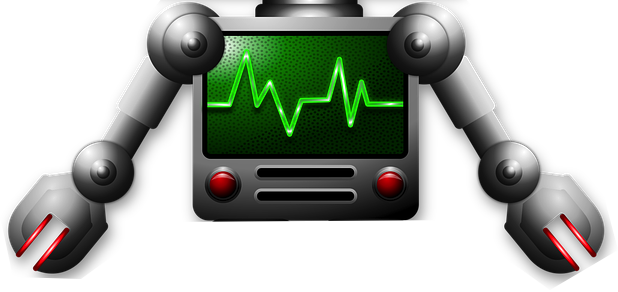
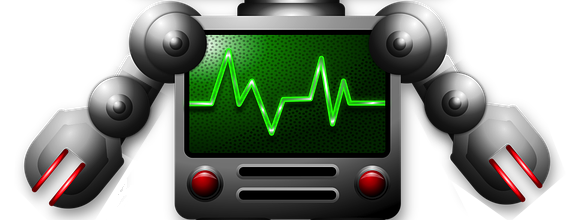
reandom button, looped images

diff --git a/src/App.js b/src/App.js
@@ -5,12 +5,48 @@ import "./App.css";
 import h1 from "./img/heads/h1.png";
 import h2 from "./img/heads/h2.png";
 import h3 from "./img/heads/h3.png";
+import h4 from "./img/heads/h4.png";
+import h5 from "./img/heads/h5.png";
+import h6 from "./img/heads/h6.png";
+import h7 from "./img/heads/h7.png";
+import h8 from "./img/heads/h8.png";
+import h9 from "./img/heads/h9.png";
+import h10 from "./img/heads/h10.png";
+import h11 from "./img/heads/h11.png";
+import h12 from "./img/heads/h12.png";
+import h13 from "./img/heads/h13.png";
+import h14 from "./img/heads/h14.png";
+import h15 from "./img/heads/h15.png";
 import b1 from "./img/bodies/b1.png";
 import b2 from "./img/bodies/b2.png";
 import b3 from "./img/bodies/b3.png";
+import b4 from "./img/bodies/b4.png";
+import b5 from "./img/bodies/b5.png";
+import b6 from "./img/bodies/b6.png";
+import b7 from "./img/bodies/b7.png";
+import b8 from "./img/bodies/b8.png";
+import b9 from "./img/bodies/b9.png";
+import b10 from "./img/bodies/b10.png";
+import b11 from "./img/bodies/b11.png";
+import b12 from "./img/bodies/b12.png";
+import b13 from "./img/bodies/b13.png";
+import b14 from "./img/bodies/b14.png";
+import b15 from "./img/bodies/b15.png";
 import f1 from "./img/feet/f1.png";
 import f2 from "./img/feet/f2.png";
 import f3 from "./img/feet/f3.png";
+import f4 from "./img/feet/f4.png";
+import f5 from "./img/feet/f5.png";
+import f6 from "./img/feet/f6.png";
+import f7 from "./img/feet/f7.png";
+import f8 from "./img/feet/f8.png";
+import f9 from "./img/feet/f9.png";
+import f10 from "./img/feet/f10.png";
+import f11 from "./img/feet/f11.png";
+import f12 from "./img/feet/f12.png";
+import f13 from "./img/feet/f13.png";
+import f14 from "./img/feet/f14.png";
+import f15 from "./img/feet/f15.png";
 import { debug } from "util";
 
 class App extends Component {
@@ -25,13 +61,62 @@ class App extends Component {
     //   originalState
     // });
     // this.handleRefresh(originalState);
-    const heads = [h1, h2, h3];
-    const bodies = [b1, b2, b3];
-    const feet = [f1, f2, f3];
+    const heads = [
+      h1,
+      h2,
+      h3,
+      h4,
+      h5,
+      h6,
+      h7,
+      h8,
+      h9,
+      h10,
+      h11,
+      h12,
+      h13,
+      h14,
+      h15
+    ];
+    const bodies = [
+      b1,
+      b2,
+      b3,
+      b4,
+      b5,
+      b6,
+      b7,
+      b8,
+      b9,
+      b10,
+      b11,
+      b12,
+      b13,
+      b14,
+      b15
+    ];
+    const feet = [
+      f1,
+      f2,
+      f3,
+      f4,
+      f5,
+      f6,
+      f7,
+      f8,
+      f9,
+      f10,
+      f11,
+      f12,
+      f13,
+      f14,
+      f15
+    ];
     let index = Math.floor(Math.random() * heads.length + 0);
-    console.log(heads.length);
     let counters = [...this.state.counters];
     counters[0].head = heads[index];
+    counters[0].body = bodies[index];
+    counters[0].feet = feet[index];
 
     this.setState({
       counters,
@@ -90,6 +175,12 @@ class App extends Component {
     const heads = [...this.state.heads];
     let index = [this.state.index];
     index++;
+    if (index >= heads.length) {
+      index = 0;
+    }
+    if (index <= -1) {
+      index = heads.length - 1;
+    }
     let counters = [...this.state.counters];
     counters[0].head = heads[index];
 
@@ -103,6 +194,12 @@ class App extends Component {
     const heads = [...this.state.heads];
     let index = [this.state.index];
     index--;
+    if (index >= heads.length) {
+      index = 0;
+    }
+    if (index <= -1) {
+      index = heads.length - 1;
+    }
     let counters = [...this.state.counters];
     counters[0].head = heads[index];
 
@@ -116,6 +213,12 @@ class App extends Component {
     const bodies = [...this.state.bodies];
     let index = [this.state.index];
     index++;
+    if (index >= bodies.length) {
+      index = 0;
+    }
+    if (index <= -1) {
+      index = bodies.length - 1;
+    }
     let counters = [...this.state.counters];
     counters[0].body = bodies[index];
 
@@ -129,6 +232,12 @@ class App extends Component {
     const bodies = [...this.state.bodies];
     let index = [this.state.index];
     index--;
+    if (index >= bodies.length) {
+      index = 0;
+    }
+    if (index <= -1) {
+      index = bodies.length - 1;
+    }
     let counters = [...this.state.counters];
     counters[0].body = bodies[index];
 
@@ -142,40 +251,66 @@ class App extends Component {
     const feet = [...this.state.feet];
     let index = [this.state.index];
     index++;
+    if (index >= feet.length) {
+      index = 0;
+    }
+    if (index <= -1) {
+      index = feet.length - 1;
+    }
     let counters = [...this.state.counters];
     counters[0].feet = feet[index];
-
     this.setState({
       counters,
       index
     });
   };
 
-  LastFeetButton = counter => {
+  LastFeetButton = () => {
     const feet = [...this.state.feet];
     let index = [this.state.index];
     index--;
+    if (index >= feet.length) {
+      index = 0;
+    }
+    if (index <= -1) {
+      index = feet.length - 1;
+    }
     let counters = [...this.state.counters];
     counters[0].feet = feet[index];
-
     this.setState({
       counters,
       index
     });
   };
 
-  // totalCount = () => {
-  //   let total = 0;
-  //   for (let i = 0; i < this.state.counters.length; i++) {
-  //     total = total + this.state.counters[i].value;
-  //   }
-  //   return total === 0 ? "Zero" : total;
-  // };
+  onRandom = () => {
+    const heads = [...this.state.heads];
+    const headIndex = Math.floor(Math.random() * heads.length + 0);
+    const bodies = [...this.state.bodies];
+    const bodyIndex = Math.floor(Math.random() * bodies.length + 0);
+    const feet = [...this.state.feet];
+    const feetIndex = Math.floor(Math.random() * feet.length + 0);
+    let counters = [...this.state.counters];
+    counters[0].head = heads[headIndex];
+    counters[0].body = bodies[bodyIndex];
+    counters[0].feet = feet[feetIndex];
+
+    this.setState({
+      counters
+    });
+  };
 
   render() {
     return (
       <React.Fragment>
         <main className="container" align="center">
+          <button
+            onClick={this.onRandom}
+            className="btn btn-danger btn-lrg m-4"
+          >
+            Random
+          </button>
+          <br />
           {/* <NavBar onTotal={this.totalCount} /> */}
           <Counters
             counters={this.state.counters}

diff --git a/src/components/counter.jsx b/src/components/counter.jsx
@@ -27,7 +27,7 @@ class Counter extends Component {
           onClick={() => this.props.onNextHead(this.props.counter)}
           className="btn btn-primary btn-sm m-2"
         >
-          YAY
+          LAST
         </button>
         <span className="m-3">
           <img
@@ -41,7 +41,7 @@ class Counter extends Component {
           onClick={() => this.props.onLastHead(this.props.counter)}
           className="btn btn-primary btn-sm m-2"
         >
-          HA
+          NEXT
         </button>
         {/* <button
           onClick={() => this.props.onDelete(this.props.counter.id)}

diff --git a/src/components/body.jsx b/src/components/body.jsx
@@ -17,7 +17,7 @@ class Body extends Component {
           onClick={() => this.props.onNextBody(this.props.counter)}
           className="btn btn-primary btn-sm m-2"
         >
-          YAY
+          LAST
         </button>
         <span className="m-3">
           <img
@@ -31,7 +31,7 @@ class Body extends Component {
           onClick={() => this.props.onLastBody(this.props.counter)}
           className="btn btn-primary btn-sm m-2"
         >
-          HA
+          NEXT
         </button>
         {/* <button
           onClick={() => this.props.onDelete(this.props.counter.id)}

diff --git a/src/components/feet.jsx b/src/components/feet.jsx
@@ -27,7 +27,7 @@ class Feet extends Component {
           onClick={() => this.props.onNextFeet(this.props.counter)}
           className="btn btn-primary btn-sm m-2"
         >
-          YAY
+          LAST
         </button>
         <span className="m-3">
           <img
@@ -42,7 +42,7 @@ class Feet extends Component {
           onClick={() => this.props.onLastFeet(this.props.counter)}
           className="btn btn-primary btn-sm m-2"
         >
-          HA
+          NEXT
         </button>
         {/* <button
           onClick={() => this.props.onDelete(this.props.counter.id)}
